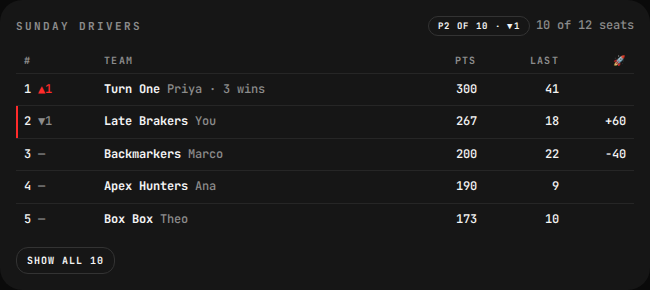
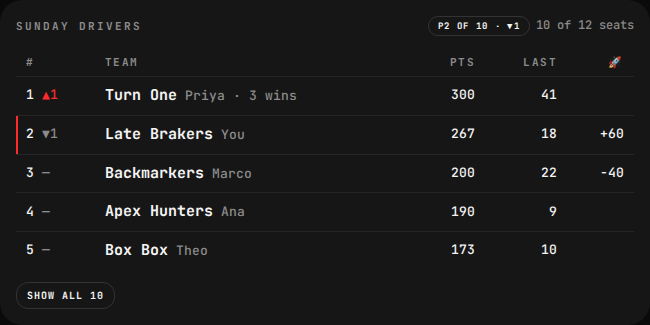
fix(pw): F-115 review — the League tile's name cell, no padding step-up, spec says every table
The League tile's name is its second cell (rank first) → scoped selector.
Wider cell padding pushed the half-width tables (Lineup Lab options, Season)
into sideways scroll at laptop widths → padding stays; measured overflow at
1024/1280/1440 is no worse than master. Spec names every table and the
rank-first exception; assets note covers the F-115 shots.

diff --git a/web/pitwall/src/styles.css b/web/pitwall/src/styles.css
@@ -168,8 +168,8 @@ details.tbl>summary{cursor:pointer;color:var(--muted);font-size:10px;letter-spac
   .over{padding:16px}
 }
 @media(min-width:641px){.only-narrow{display:none !important}}
-/* F-115: a wide screen has room — tables step up (cells 13px, headers 11px, the name cell 15px); the phone keeps 12px */
-@media(min-width:981px){td{font-size:13px;padding:8px 10px}th{font-size:11px;padding:7px 10px}td:first-child b{font-size:15px}}
+/* F-115: a wide screen has room — every table steps up (cells 13px, headers 11px, the bold name cell 15px; padding stays, or the half-width tables scroll sideways on a laptop — the first cell, or the second in the League tile where rank comes first); the phone keeps 12px */
+@media(min-width:981px){td{font-size:13px}th{font-size:11px}td:first-child b,#league-table td:nth-child(2) b{font-size:15px}}
 
 /* ---- locked frames (F-068) ---- */
 /* Enough of the frame to show what it is, not so much that the offer sits in a field of blur. */

diff --git a/.aidlc/specs/F-115.md b/.aidlc/specs/F-115.md
@@ -6,9 +6,9 @@ Created: 2026-10-08 · Status: building · Design source: the owner, 2026-10-08 
 Undercut (Pit Wall portal). The portal's running text is 12 px mono at every width, and every table cell inherits it — the size was chosen so the phone layout holds, and nothing steps it up where there is room. On a desktop the Market, Board, Lineup Lab option and League tables are harder to read than they need to be, driver names most of all. This scales table text up at the portal's existing wide breakpoint and leaves the phone exactly as it is.
 
 ## Acceptance criteria
-- [ ] **At ≥ 981 px** (the breakpoint the page grid already uses) table cells read at 13 px with a little more cell padding, column headers at 11 px, and the name cell — the bold first cell of a row (Market, Board, Lineup Lab options, the League tile) — at 15 px. Below 981 px nothing changes: the phone keeps 12 px and its padding.
+- [ ] **At ≥ 981 px** (the breakpoint the page grid already uses) every `table` in the portal reads at 13 px and column headers at 11 px — cell padding stays as it is, because wider cells pushed the half-width tables (Lineup Lab options, Season) into sideways scroll at 1024–1280 px — Market, Board, Lineup Lab options, Season, Pace Lab, the compare table, the League tile. The bold name cell reads at 15 px: the first cell of a row everywhere, and the second in the League tile, where rank comes first (`#league-table`). Bold cells that are not names (a Board median, a Lab gain) are untouched. Below 981 px nothing changes: the phone keeps 12 px and its padding (byte-identical screenshot).
 - [ ] **Row lists keep their size.** `.row` lists (Circuit, Briefing, Moonshot) are not in scope; only `table` cells.
-- [ ] **Budgets hold.** The scroll budget stays within 3.0 screens in every measured state at 1440 × 900 (the larger cells lengthen the Board and Market pages); first-load JS unchanged. Before/after screenshots of Market at desktop and phone in `docs/design/pitwall/verify/F-115-*.png`.
+- [ ] **Budgets hold.** The scroll budget stays within 3.0 screens in every measured state at 1440 × 900 (the larger cells lengthen the Board and Market pages); the half-width tables add no sideways scroll at 1024, 1280 or 1440 that they did not have before; first-load JS unchanged. Before/after screenshots of Market at desktop and phone in `docs/design/pitwall/verify/F-115-*.png`.
 
 ## Targets
 - web (Pit Wall portal only)
